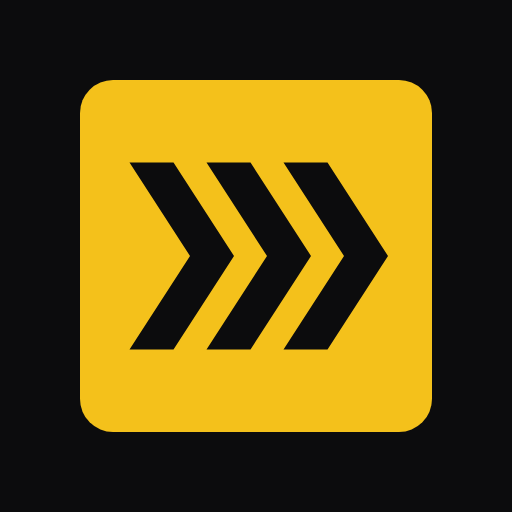
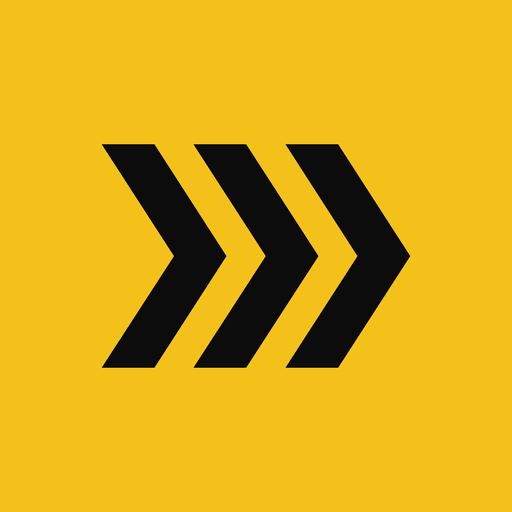
ba-transit v28.1: icono de la app instalada en amarillo entero
El icono que usa Android al instalar la app (maskable) era un cuadrado amarillo chico sobre fondo negro: el celular lo recortaba con su forma y quedaba un marco negro alrededor. Ahora es amarillo hasta el borde, con las flechas dentro de la zona que ningun celular recorta. El de iPhone tenia lo mismo y tambien va amarillo entero (el sistema le redondea las esquinas). Las direcciones de los dos iconos cambian para que no se siga usando el de antes guardado.

diff --git a/frontend/index.html b/frontend/index.html
@@ -4,7 +4,7 @@
     <meta charset="UTF-8" />
     <meta name="viewport" content="width=device-width, initial-scale=1.0" />
     <link rel="icon" type="image/svg+xml" href="/favicon.svg" />
-    <link rel="apple-touch-icon" href="/apple-touch-icon.png" />
+    <link rel="apple-touch-icon" href="/apple-touch-icon.png?v=2" />
     <link rel="manifest" href="/manifest.webmanifest" />
     <meta name="theme-color" content="#0c0c0d" />
     <meta name="apple-mobile-web-app-title" content="BA Transit" />
